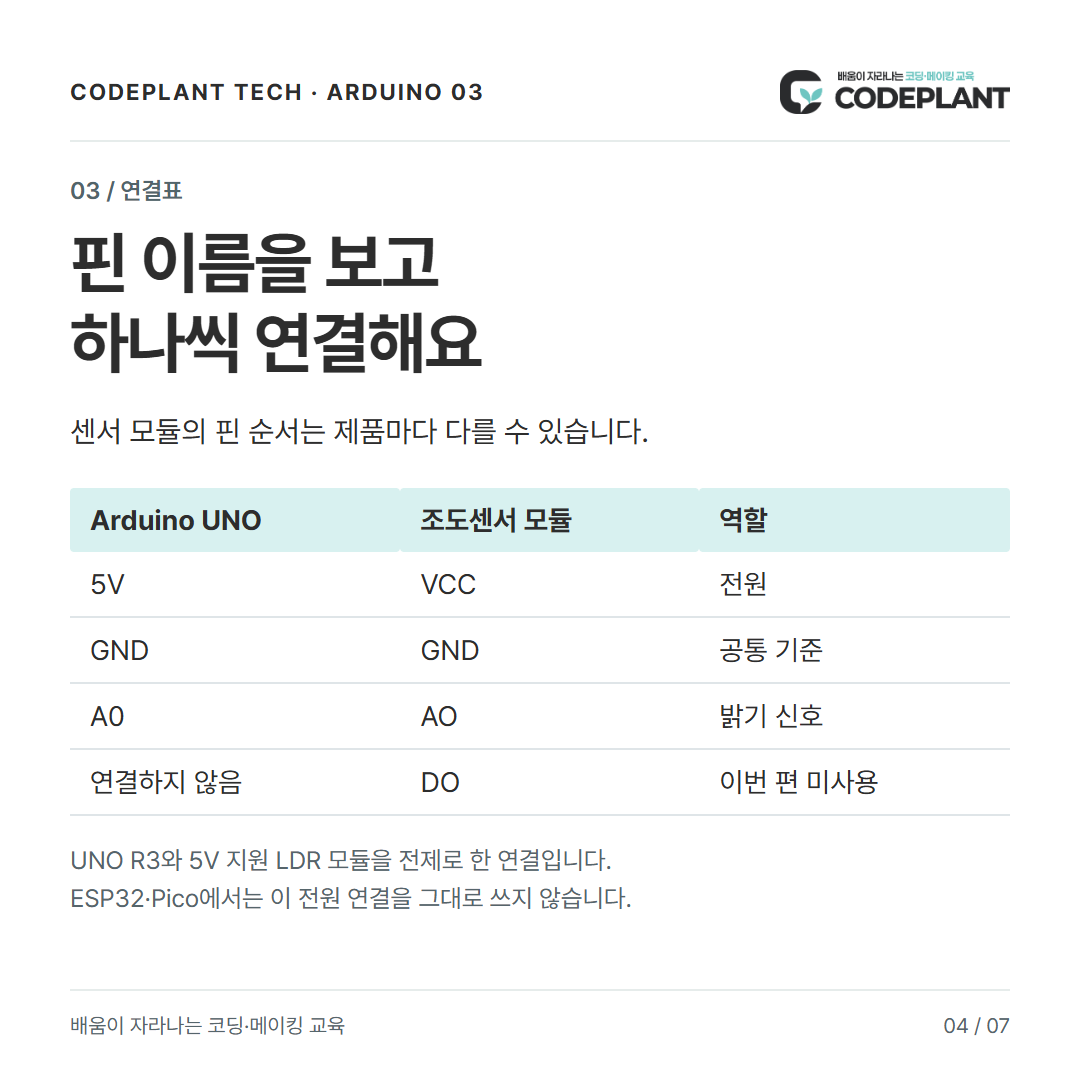
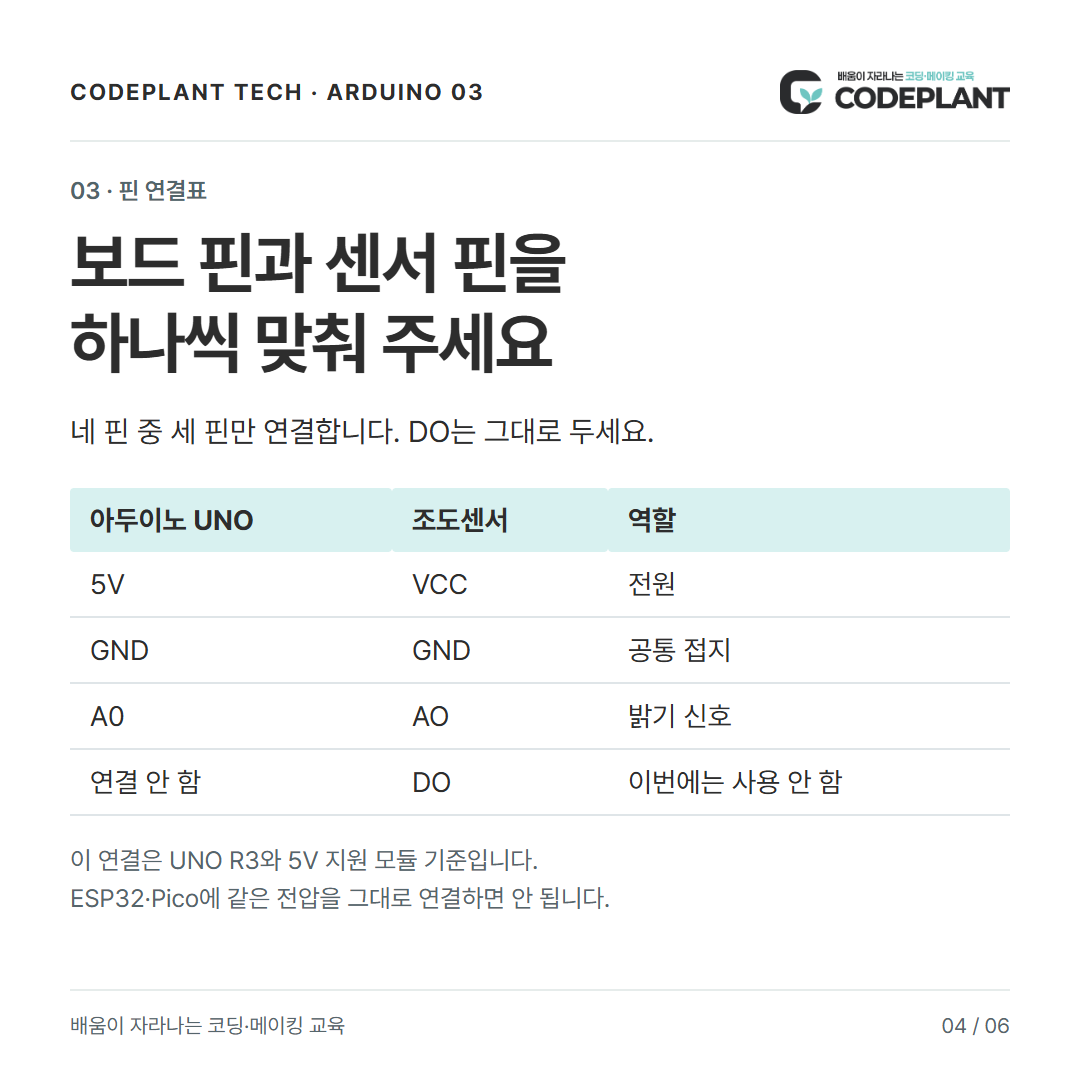
Update arduino-001-cds-ao educational cards and code

diff --git a/caption.md b/caption.md
@@ -1,13 +1,14 @@
-# 빛의 변화를 숫자로 읽어 볼까요?
+# 조도센서, 손으로 가려 볼까요?
 
-조도센서 모듈의 AO를 Arduino UNO의 A0에 연결하면 주변 밝기의 변화를 숫자로 확인할 수 있습니다.
+센서를 가렸을 때와 손을 뗐을 때, 시리얼 모니터의 숫자가 어떻게 달라지는지 비교해 보세요.
 
-이번 예제는 5V를 지원하는 모듈형 LDR을 사용합니다. VCC→5V, GND→GND, AO→A0로 연결하고 DO는 사용하지 않습니다. 연결할 때는 USB 전원을 빼고 실제 모듈에 인쇄된 핀 이름을 확인하세요.
+준비물은 Arduino UNO R3, 5V 지원 4핀 조도센서 모듈, 점퍼선 3개입니다. USB를 빼고 5V↔VCC, GND↔GND, A0↔AO를 연결합니다. DO는 연결하지 않습니다. 모듈마다 핀 위치가 다르니 인쇄된 이름을 확인하세요.
 
-코드를 업로드한 뒤 시리얼 모니터를 9600 baud로 열어 보세요. 센서를 가렸을 때와 빛을 비췄을 때의 값을 비교하면 됩니다. 값의 변화 방향은 실제 모듈마다 다를 수 있고, 이 숫자를 곧바로 lux로 해석하지는 않습니다.
+전체 코드를 업로드하고 시리얼 모니터를 9600 baud로 열면 0.5초마다 값이 나옵니다. 이 값은 밝기 변화의 참고값이며 lux(럭스)는 아닙니다. 값이 커지는지 작아지는지는 실제 센서로 확인합니다.
 
-전체 코드: https://github.com/CodeplantEDU/codeplant-tech-arduino-001-cds-ao
+전체 코드와 실행 방법: https://github.com/CodeplantEDU/codeplant-tech-arduino-001-cds-ao
 
-다음 편에서는 접점식 디지털센서로 상태를 읽는 방법을 연습합니다. 저장해 두고 함께 실습해 보세요.
+사진: SparkFun Electronics(CC BY 2.0) / SunFounder 공식 자료. 자세한 출처는 저장소 README에 있습니다.
+다음 편: 디지털센서의 0과 1 읽기.
 
 #코드플랜트 #CODEPLANT #아두이노 #Arduino #조도센서 #센서활용 #피지컬컴퓨팅 #코딩교육
